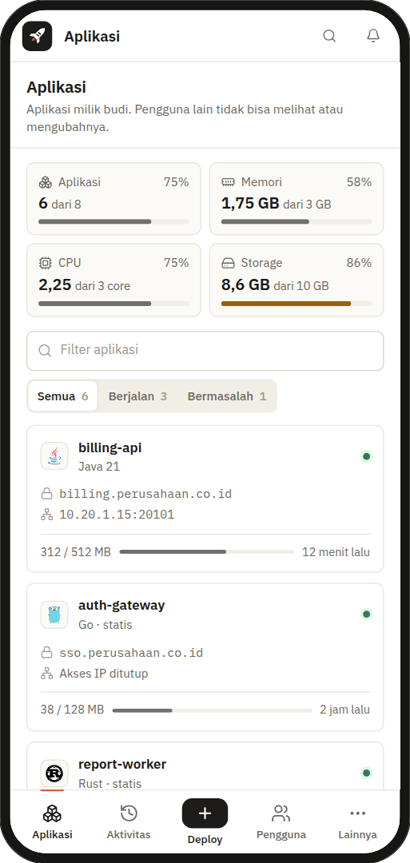
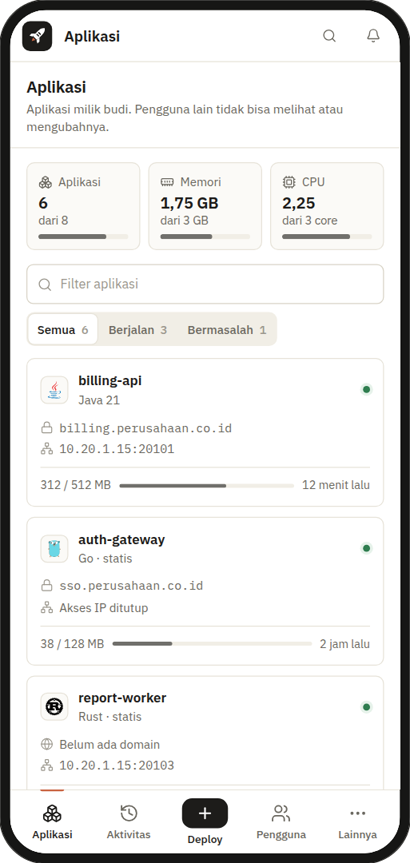
Quota is apps, memory and CPU only; drop storage limits so Runova runs on stock Ubuntu Server

diff --git a/preview-dashboard.html b/preview-dashboard.html
@@ -125,6 +125,7 @@ svg.lucide{width:15px;height:15px;stroke-width:1.75;flex:none}
 
 /* Apps */
 .stats{display:grid;grid-template-columns:repeat(4,minmax(0,1fr));gap:10px;margin-bottom:16px}
+#stats{grid-template-columns:repeat(3,minmax(0,1fr))}
 .stat{border:1px solid var(--line);border-radius:var(--r);padding:11px 13px;background:var(--raised)}
 .stat .l{display:flex;align-items:center;gap:6px;color:var(--muted);font-size:12px}
 .stat .l .lucide{width:14px;height:14px}
@@ -259,7 +260,7 @@ input.f::placeholder{color:var(--faint)}
 .fld{display:grid;gap:6px;margin-bottom:16px}
 .fld>label{font-weight:500;font-size:12.5px}
 .fld .hint{font-size:12px;color:var(--muted)}
-.res3{display:grid;grid-template-columns:repeat(3,minmax(0,1fr));gap:10px;margin-bottom:14px}
+.res3{display:grid;grid-template-columns:repeat(2,minmax(0,1fr));gap:10px;margin-bottom:14px}
 .rescard{border:1px solid var(--line);border-radius:var(--r);padding:11px 12px}
 .rescard .l{display:flex;align-items:center;gap:6px;color:var(--muted);font-size:12px;margin-bottom:7px}
 .rescard .l .lucide{color:var(--faint);width:14px;height:14px}
@@ -385,6 +386,9 @@ input.f::placeholder{color:var(--faint)}
   .app[data-view=apps] .ph .acts{display:none}
   .pb{padding:14px 16px 20px}
   .stats{grid-template-columns:1fr 1fr;gap:8px;margin-bottom:14px}
+  #stats{grid-template-columns:repeat(3,minmax(0,1fr))}
+  #stats .stat .l span{display:none}
+  #stats .stat .v small{display:block}
   .stat{padding:10px 11px}
   .stat .v{font-size:16px;margin:2px 0 7px}
   .toolbar{flex-wrap:wrap}
@@ -512,7 +516,6 @@ input.f::placeholder{color:var(--faint)}
         <div class="mini">
           <i data-lucide="memory-stick"></i><div class="bar"><i style="width:58%"></i></div><span>58%</span>
           <i data-lucide="cpu"></i><div class="bar"><i style="width:75%"></i></div><span>75%</span>
-          <i data-lucide="hard-drive"></i><div class="bar"><i class="hi" style="width:86%"></i></div><span>86%</span>
         </div>
       </div>
       <div class="acct"><span class="av">BS</span><div><b>Budi Santoso</b><span>budi@perusahaan.co.id</span></div><i data-lucide="chevrons-up-down"></i></div>
@@ -620,7 +623,6 @@ input.f::placeholder{color:var(--faint)}
               <div class="bd meters">
                 <div><div class="t"><b><i data-lucide="memory-stick"></i>Memori</b><span>312 / 512 MB</span></div><div class="bar"><i style="width:61%"></i></div></div>
                 <div><div class="t"><b><i data-lucide="cpu"></i>CPU</b><span>0,18 / 0,5 core</span></div><div class="bar"><i style="width:36%"></i></div></div>
-                <div><div class="t"><b><i data-lucide="hard-drive"></i>Storage</b><span>148 MB / 1 GB</span></div><div class="bar"><i style="width:15%"></i></div></div>
               </div></section>
           </div>
         </div>
@@ -785,7 +787,6 @@ input.f::placeholder{color:var(--faint)}
               <div class="res3">
                 <div class="rescard"><div class="l"><i data-lucide="memory-stick"></i>Memori</div><select class="f"><option>256 MB</option><option selected>512 MB</option><option>1 GB</option></select><div class="hint">Sisa 1,25 GB dari 3 GB</div></div>
                 <div class="rescard"><div class="l"><i data-lucide="cpu"></i>CPU</div><select class="f"><option>0,25 core</option><option selected>0,5 core</option><option>0,75 core</option></select><div class="hint">Sisa 0,75 core dari 3</div></div>
-                <div class="rescard"><div class="l"><i data-lucide="hard-drive"></i>Storage</div><select class="f"><option>512 MB</option><option selected>1 GB</option></select><div class="hint">Sisa 1,4 GB dari 10 GB</div></div>
               </div>
               <section class="card"><div class="bd" style="padding-top:2px;padding-bottom:2px">
                 <div class="setting"><div><b>Akses lewat IP</b><div class="d">Buka di <span class="mono">10.20.1.15:&lt;port&gt;</span> untuk pengujian sebelum domain siap</div></div><div class="ctl"><button class="sw" role="switch" aria-checked="true" aria-label="Akses lewat IP"></button></div></div>
@@ -865,7 +866,7 @@ input.f::placeholder{color:var(--faint)}
             <div class="srow"><span>Artefak</span><b class="mono">billing-api-2.4.1.jar</b></div>
             <div class="srow"><span>Runtime</span><b id="sumrt">Java 21</b></div>
             <div class="srow"><span>Port</span><b class="mono">8080 → otomatis</b></div>
-            <div class="srow"><span>Resource</span><b>512 MB · 0,5 core · 1 GB</b></div>
+            <div class="srow"><span>Resource</span><b>512 MB · 0,5 core</b></div>
             <div class="sep"></div>
             <div class="todo">
               <div class="ok"><i data-lucide="circle-check"></i>File valid untuk server ini</div>
@@ -889,7 +890,7 @@ input.f::placeholder{color:var(--faint)}
         <div class="ph"><div><h1>Pengguna</h1><p>Admin mendaftarkan pengguna dan menentukan kuota. Pengguna membagi kuota ke aplikasinya sendiri.</p></div>
           <div class="acts"><button class="btn pri"><i data-lucide="user-plus"></i>Tambah pengguna</button></div></div>
         <div class="pb"><section class="card"><table class="t">
-          <thead><tr><th>Pengguna</th><th>Peran</th><th>Aplikasi</th><th>Memori</th><th>CPU</th><th>Storage</th><th class="num"></th></tr></thead>
+          <thead><tr><th>Pengguna</th><th>Peran</th><th>Aplikasi</th><th>Memori</th><th>CPU</th><th class="num"></th></tr></thead>
           <tbody id="userrows"></tbody></table></section></div>
       </section>
 
@@ -937,7 +938,6 @@ input.f::placeholder{color:var(--faint)}
         <div class="mini">
           <i data-lucide="memory-stick"></i><div class="bar"><i style="width:58%"></i></div><span>58%</span>
           <i data-lucide="cpu"></i><div class="bar"><i style="width:75%"></i></div><span>75%</span>
-          <i data-lucide="hard-drive"></i><div class="bar"><i class="hi" style="width:86%"></i></div><span>86%</span>
         </div>
       </div>
       <div class="mlist">
@@ -959,7 +959,7 @@ const icons = () => lucide.createIcons();
 
 $("#stats").innerHTML = [
   ["boxes", "Aplikasi", "6", "dari 8", 75], ["memory-stick", "Memori", "1,75 GB", "dari 3 GB", 58],
-  ["cpu", "CPU", "2,25", "dari 3 core", 75], ["hard-drive", "Storage", "8,6 GB", "dari 10 GB", 86],
+  ["cpu", "CPU", "2,25", "dari 3 core", 75],
 ].map(([ic, l, v, of, p]) => `<div class="stat"><div class="l"><i data-lucide="${ic}"></i>${l}<span style="margin-left:auto">${p}%</span></div><div class="v">${v} <small>${of}</small></div><div class="bar"><i class="${p >= 85 ? "hi" : ""}" style="width:${p}%"></i></div></div>`).join("");
 
 const apps = [
@@ -1021,14 +1021,14 @@ $("#actrows").innerHTML = [
 
 const q = ([u, m], unit) => { const p = Math.round((u / m) * 100); return `<div class="qcell"><div class="t"><b>${String(u).replace(".", ",")}</b><span>${String(m).replace(".", ",")} ${unit}</span></div><div class="bar"><i class="${p >= 85 ? "hi" : ""}" style="width:${p}%"></i></div></div>`; };
 $("#userrows").innerHTML = [
-  ["Budi Santoso", "budi", "Admin", [6, 8], [1.75, 3], [2.25, 3], [8.6, 10]],
-  ["Sari Wulandari", "sari", "Pengguna", [3, 5], [1.5, 2], [1, 2], [2.1, 5]],
-  ["Tim Data", "data", "Pengguna", [2, 4], [3.5, 4], [2, 2], [18.4, 20]],
-  ["Rina Kusuma", "rina", "Pengguna", [0, 3], [0, 1], [0, 1], [0, 2]],
-].map(([n, u, r, a, m, c, s]) => `<tr>
+  ["Budi Santoso", "budi", "Admin", [6, 8], [1.75, 3], [2.25, 3]],
+  ["Sari Wulandari", "sari", "Pengguna", [3, 5], [1.5, 2], [1, 2]],
+  ["Tim Data", "data", "Pengguna", [2, 4], [3.5, 4], [2, 2]],
+  ["Rina Kusuma", "rina", "Pengguna", [0, 3], [0, 1], [0, 1]],
+].map(([n, u, r, a, m, c]) => `<tr>
   <td><div class="ucell"><span class="av">${n.split(" ").map((x) => x[0]).join("").slice(0, 2)}</span><div><b>${n}</b><small>${u}</small></div></div></td>
   <td>${r === "Admin" ? '<span class="chip info">Admin</span>' : '<span class="chip">Pengguna</span>'}</td>
-  <td>${q(a, "")}</td><td>${q(m, "GB")}</td><td>${q(c, "core")}</td><td>${q(s, "GB")}</td>
+  <td>${q(a, "")}</td><td>${q(m, "GB")}</td><td>${q(c, "core")}</td>
   <td class="num" style="white-space:nowrap"><button class="btn sm"><i data-lucide="sliders-horizontal"></i>Kuota</button> <button class="ibtn" aria-label="Lainnya" style="display:inline-grid;vertical-align:middle"><i data-lucide="ellipsis"></i></button></td></tr>`).join("");
 
 $("#rtlist").innerHTML = [

diff --git a/README.md b/README.md
@@ -23,7 +23,7 @@
 Platform seperti Vercel atau Railway membangun aplikasi dari source code dan berjalan di cloud mereka. Banyak tim internal justru sudah punya artefak jadi dari pipeline sendiri (file `.jar` dari Maven, binary Go atau Rust dari CI) dan cukup butuh satu tempat di server kantor untuk menjalankannya dengan rapi:
 
 - **Unggah, bukan build.** Runova tidak menyentuh source code. Ia membaca file yang diunggah: jenisnya, versi Java minimal, port, dan environment yang dirujuk.
-- **Terpisah per pengguna.** Setiap aplikasi berjalan di container Docker sendiri dengan batas memori, CPU, dan storage. Pengguna tidak bisa melihat atau menyentuh aplikasi milik pengguna lain.
+- **Terpisah per pengguna.** Setiap aplikasi berjalan di container Docker sendiri dengan batas memori dan CPU. Pengguna tidak bisa melihat atau menyentuh aplikasi milik pengguna lain.
 - **Uji dulu lewat IP, lalu pasang domain.** Aplikasi bisa dibuka di `IP-server:port` untuk pengujian. Setelah admin jaringan mengarahkan DNS, Caddy menerbitkan sertifikat HTTPS sendiri dan akses IP bisa ditutup.
 
 ## Yang boleh dijalankan
@@ -53,7 +53,7 @@ Deploy dibagi empat langkah:
 1. **Unggah.** Tarik file ke halaman. Hasil pembacaan tampil sebagai checklist.
 2. **Runtime.** Pilih versi Java (untuk `.jar`), opsi JVM, dan port yang didengarkan aplikasi.
 3. **Environment.** Variabel yang dirujuk aplikasi muncul sebagai form. Nilai rahasia disimpan terenkripsi.
-4. **Resource & akses.** Bagi memori, CPU, dan storage dari sisa kuota akun. Nyalakan akses IP untuk pengujian, dan isi domain kalau sudah siap.
+4. **Resource & akses.** Bagi memori dan CPU dari sisa kuota akun. Nyalakan akses IP untuk pengujian, dan isi domain kalau sudah siap.
 
 Tombol **Deploy** baru aktif setelah semua yang wajib terpenuhi. Panel ringkasan menunjukkan apa yang masih kurang.
 
@@ -63,7 +63,8 @@ Setelah jalan, halaman aplikasi berisi kontrol (unggah versi baru, restart, stop
 
 - **Admin** mendaftarkan pengguna. Tidak ada pendaftaran mandiri.
 - Setiap pengguna hanya melihat dan mengelola aplikasinya sendiri.
-- Admin menentukan kuota per pengguna: **jumlah aplikasi, memori, CPU, ukuran unggahan, dan total storage**. Pengguna membagi kuota itu ke aplikasinya.
+- Admin menentukan kuota per pengguna: **jumlah aplikasi, memori, dan CPU**. Pengguna membagi kuota itu ke aplikasinya.
+- Storage tidak dikuota, supaya Runova jalan di Ubuntu Server apa adanya tanpa menyiapkan disk khusus. Admin tetap bisa memantau pemakaian disk server di halaman Server.
 - Aplikasi yang memakai memori melebihi batasnya dihentikan dan dijalankan ulang oleh Docker tanpa mengganggu aplikasi lain.
 
 ## Menghubungkan domain
@@ -97,7 +98,7 @@ Untuk DNS langsung dan proxy, sertifikat diterbitkan Caddy di server. Untuk Tunn
 |---|---|
 | Server target | Ubuntu Server 26.04 LTS, `linux/amd64` |
 | Runova | Satu binary Go, frontend tertanam |
-| Isolasi aplikasi | Docker, satu container per aplikasi, batas memori/CPU/storage |
+| Isolasi aplikasi | Docker, satu container per aplikasi, batas memori dan CPU |
 | Domain & HTTPS | Caddy, sertifikat otomatis |
 | Akses IP | Nyala: port terbuka di `0.0.0.0`. Mati: hanya `127.0.0.1`, cuma Caddy yang bisa mengakses |
 | Port aplikasi | Dialokasikan otomatis dari rentang yang diatur admin |
